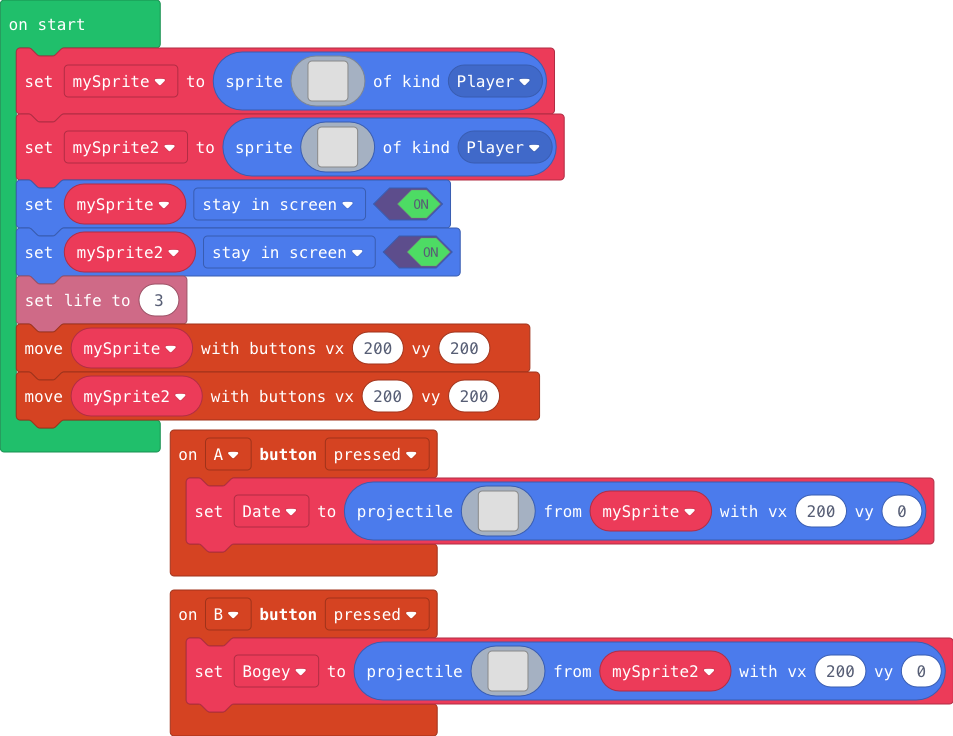
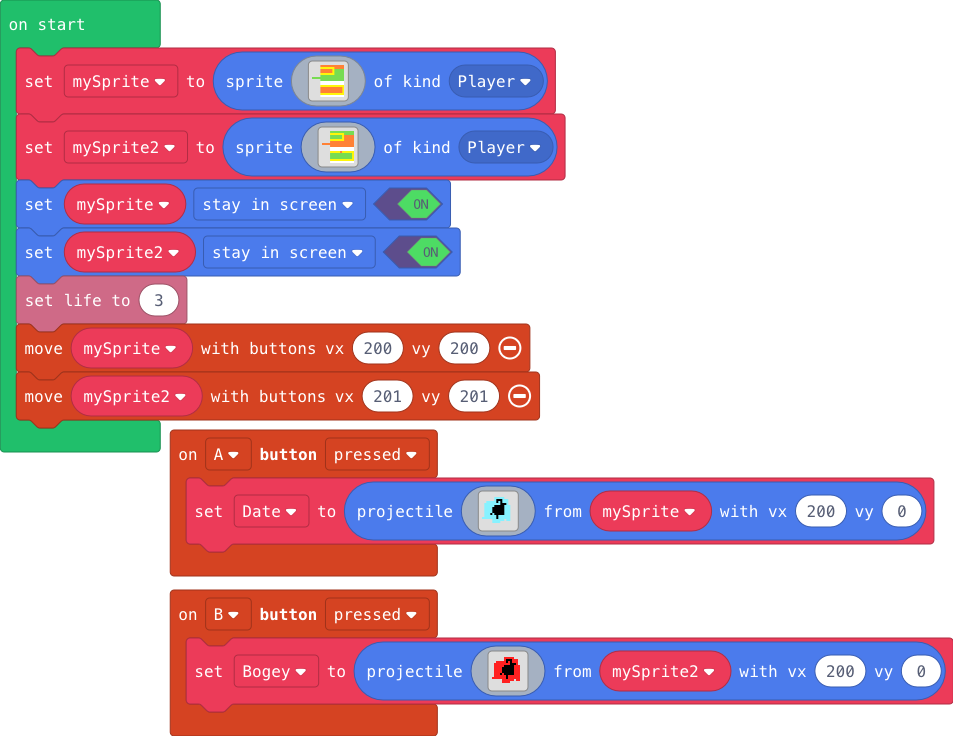
2020619

diff --git a/main.ts b/main.ts
@@ -85,4 +85,4 @@ mySprite.setFlag(SpriteFlag.StayInScreen, true)
 mySprite2.setFlag(SpriteFlag.StayInScreen, true)
 info.setLife(3)
 controller.moveSprite(mySprite, 200, 200)
-controller.moveSprite(mySprite2, 200, 200)
+controller.moveSprite(mySprite2, 201, 201)
